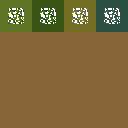
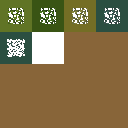
dev

Changed region(s): [[0.0, 0.25, 0.5, 0.5]]

diff --git a/src/babylon/world/treeManager.ts b/src/babylon/world/treeManager.ts
@@ -1,19 +1,23 @@
 import { Matrix, Scene, Vector2, Vector3 } from '@babylonjs/core'
 import { Prefab, WorldRenderer } from '@/babylon/world/worldRenderer'
 import { MaterialEnum1 } from '@/babylon/materials'
-import { PrefabTree1 } from '@/babylon/world/prefabs/tree1'
 import { WorldDataManager } from '@/data/worldDataManager'
 import { ViewportManager } from '@/utils/viewport'
+import { PrefabOak } from '@/babylon/world/prefabs/treeOak'
+import { PrefabFir } from '@/babylon/world/prefabs/treeFir'
 
 export const TreeManager = {
     prefabs: {
         tree1: null as Prefab | null,
+        tree2: null as Prefab | null,
     },
     allTrees : [] as Tree[],
     visibleTrees : [] as Tree[],
 
     initialize(scene: Scene) {
-        this.prefabs.tree1 = PrefabTree1.getPrefab(scene)
+        this.prefabs.tree1 = PrefabOak.getPrefab(scene)
+        this.prefabs.tree2 = PrefabFir.getPrefab(scene)
+
         this.addTrees()
     },
 
@@ -23,9 +27,31 @@ export const TreeManager = {
     consumeTrees(data: [ { x: number, z: number, size: number } ]) {
         data.forEach(tree => {
             const y = WorldDataManager.getBlockMap()[tree.x][tree.z].height + 0.5
-            this.allTrees.push(new Tree1(new Vector3(tree.x, y, tree.z), Math.floor(Math.random() * 4) * Math.PI / 2, tree.size * 1.5, MaterialEnum1.getMaterialByIndex(1 + Math.floor(Math.random() * 2))))
-        })
+            const size = tree.size
+            const rotation = Math.floor(Math.random() * 4) * Math.PI / 2
+            const pos = new Vector3(tree.x, y, tree.z)
 
+            switch (tree.type) {
+                case 1: this.allTrees.push(new TreeOak(pos, rotation, size, MaterialEnum1.getMaterialByIndex(1)))
+                    break
+                case 2: this.allTrees.push(new TreeOak(pos, rotation, size, MaterialEnum1.getMaterialByIndex(2)))
+                    break
+                case 3: this.allTrees.push(new TreeOak(pos, rotation, size, MaterialEnum1.getMaterialByIndex(3)))
+                    break
+                case 4: this.allTrees.push(new TreeOak(pos, rotation, size, MaterialEnum1.getMaterialByIndex(4)))
+                    break
+                case 5: this.allTrees.push(new TreeFir(pos, rotation, size, MaterialEnum1.getMaterialByIndex(1)))
+                    break
+                case 6: this.allTrees.push(new TreeFir(pos, rotation, size, MaterialEnum1.getMaterialByIndex(2)))
+                    break
+                case 7: this.allTrees.push(new TreeFir(pos, rotation, size, MaterialEnum1.getMaterialByIndex(3)))
+                    break
+                case 8: this.allTrees.push(new TreeFir(pos, rotation, size, MaterialEnum1.getMaterialByIndex(4)))
+                    break
+                default:
+                    break
+            }
+        })
     },
 
     removeTrees(data: [ { x: number, z: number } ]) {
@@ -82,7 +108,7 @@ export const TreeManager = {
     }
 }
 
-class Tree1 implements Tree {
+class TreeOak implements Tree {
     position: Vector3
     rotation: number
     scale: number
@@ -121,6 +147,44 @@ class Tree1 implements Tree {
     }
 }
 
+class TreeFir implements Tree {
+    position: Vector3
+    rotation: number
+    scale: number
+    leafMaterial: Vector2
+    woodMaterial: Vector2
+    leavesPrefab: Prefab
+
+    constructor(position: Vector3, rotation: number, scale: number, leafMaterial: Vector2) {
+        this.position = position
+        this.rotation = rotation
+        this.scale = scale
+        this.leafMaterial = leafMaterial
+        this.woodMaterial = Math.random() < 0.5 ? MaterialEnum1.WOOD_1.uv : MaterialEnum1.WOOD_2.uv
+        this.leavesPrefab = TreeManager.prefabs.tree2!
+    }
+
+    renderLeaves() {
+        const matrix = Matrix.Translation( this.position.x, this.position.y - 1 + (2 * this.scale), this.position.z);
+        const rotationMatrix = Matrix.RotationY(this.rotation);
+        const scaleMatrix = Matrix.Scaling(this.scale, this.scale, this.scale);
+
+        this.leavesPrefab.matrices.push(scaleMatrix.multiply(rotationMatrix).multiply(matrix))
+        this.leavesPrefab.uvData.push(this.leafMaterial)
+    }
+
+    renderTrunk() {
+        const scaleMatrix = Matrix.Scaling(this.scale / 2, this.scale / 2, this.scale / 2);
+
+        // Blocks for trunk
+        for (let i = 0; i <= 2 * this.scale; i += this.scale / 2) {
+            const positionMatrix = Matrix.Translation( this.position.x, this.position.y + i, this.position.z)
+
+            WorldRenderer.block1!.matrices.push(scaleMatrix.multiply(positionMatrix))
+            WorldRenderer.block1!.uvData.push(this.woodMaterial)
+        }
+    }
+}
 interface Tree {
     position: Vector3
     rotation: number

diff --git a/src/babylon/monsters/monsterManager.ts b/src/babylon/monsters/monsterManager.ts
@@ -4,7 +4,6 @@ import { MonsterLoader } from '@/babylon/monsters/monsterLoader'
 import { MonsterModel } from '@/babylon/monsters/monsterModel'
 import { MonsterCodebook, MonsterType } from '@/babylon/monsters/codebook/monsterCodebook'
 import { Utils } from '@/utils/utils'
-import { Data } from '@/data/globalData'
 import { ViewportManager } from '@/utils/viewport'
 
 export const MonsterManager = {
@@ -20,9 +19,9 @@ export const MonsterManager = {
 
         if (this.monsters.has(id)) {
             const mob = this.monsters.get(id)
-            mob.xPos = position.x
-            mob.zPos = position.z
-            mob.hp = hp
+            mob!.pos.x = position.x
+            mob!.pos.z = position.z
+            mob!.hp = hp
         } else {
             const monsterType: MonsterType = MonsterCodebook.getMonsterTypeById(type)
             const monster = new Monster(id, monsterType, position.x, position.z, hp)
@@ -47,7 +46,7 @@ export const MonsterManager = {
     removeMonster (id: number) {
         if (this.monsters.has(id)) {
             this.visibleMonsters.delete(id)
-            this.monsters.get(id).removeMonster()
+            this.monsters.get(id)!.removeMonster()
             this.monsters.delete(id)
         }
     },
@@ -55,19 +54,19 @@ export const MonsterManager = {
     monsterMove(id: number, position: { x: number, z: number }, target: { x: number, z: number }, speed: number) {
         if (this.monsters.has(id)) {
             const mob = this.monsters.get(id)
-            mob.runSpeed = speed
-            mob.xPos = position.x
-            mob.zPos = position.z
-            mob.setTargetPoint(new Vector3(target.x, 0, target.z))
+            mob!.runSpeed = speed
+            mob!.pos.x = position.x
+            mob!.pos.z = position.z
+            mob!.setTargetPoint(new Vector3(target.x, 0, target.z))
         }
     },
 
     monsterMoveStop(id: number, position: { x: number, z: number }) {
         if (this.monsters.has(id)) {
             const mob = this.monsters.get(id)
-            mob.xPos = position.x
-            mob.zPos = position.z
-            mob.resetTargetPoint()
+            mob!.pos.x = position.x
+            mob!.pos.z = position.z
+            mob!.resetTargetPoint()
         }
     },
 
@@ -101,12 +100,12 @@ export const MonsterManager = {
     },
 
     isMonsterInViewport(monster: Monster) {
-        return ViewportManager.isPointInVisibleMatrix(Math.floor(monster.xPos), Math.floor(monster.zPos), 0)
+        return ViewportManager.isPointInVisibleMatrix(Math.floor(monster.pos.x), Math.floor(monster.pos.z), 0)
     },
 
     isPointInMonster(x: number, z: number, size: number): Monster | null {
         for (const monster of this.monsters.values()) {
-            if (Math.abs(monster.xPos - x) < size && Math.abs(monster.zPos - z) < size) {
+            if (Math.abs(monster.pos.x - x) < size && Math.abs(monster.pos.z - z) < size) {
                 return monster
             }
         }

diff --git a/src/babylon/monsters/monster.ts b/src/babylon/monsters/monster.ts
@@ -13,9 +13,8 @@ export class Monster {
     hp: number
     runSpeed: number = 0
     rotationSpeed: number = 15
-    xPos: number
-    zPos: number
-    yPos: number
+    pos: Vector3
+    logicYpos: number = 0
 
     moveAngle: number | null = null
     insideView: boolean = true
@@ -24,9 +23,9 @@ export class Monster {
         this.id = id
         this.mobType = mobType
         this.hp = hp
-        this.xPos = xPos
-        this.zPos = zPos
-        this.yPos = 0
+        this.pos = new Vector3(xPos, 0, zPos)
+        this.logicYpos = this.calculateYPos()
+        this.pos.y = this.logicYpos
     }
 
     onFrame(timeRate: number, actualTime: number) {
@@ -47,30 +46,30 @@ export class Monster {
         const stepSize = this.runSpeed * timeRate
         if (this.targetPoint != null) {
 
-            const dx = Math.abs(this.targetPoint.x - this.xPos)
-            const dz = Math.abs(this.targetPoint.z - this.zPos)
+            const dx = Math.abs(this.targetPoint.x - this.pos.x)
+            const dz = Math.abs(this.targetPoint.z - this.pos.z)
 
             if (dx <= stepSize && dz <= stepSize) {
-                this.xPos = this.targetPoint.x
-                this.zPos = this.targetPoint.z
+                this.pos.x = this.targetPoint.x
+                this.pos.z = this.targetPoint.z
                 this.targetPoint = null
                 this.moveAngle = null
             }
         }
 
         if (this.moveAngle != null) {
-            this.xPos += (Math.cos(this.moveAngle + Math.PI / 4) * stepSize)
-            this.zPos -= (Math.sin(this.moveAngle + Math.PI / 4) * stepSize)
+            this.pos.x += (Math.cos(this.moveAngle + Math.PI / 4) * stepSize)
+            this.pos.z -= (Math.sin(this.moveAngle + Math.PI / 4) * stepSize)
             if (this.model.initialized) this.model.doWalk()
         } else {
             if (this.model.initialized) this.model.doIdle()
         }
 
-        this.yPos = this.calculateYPos()
+        this.logicYpos = this.calculateYPos()
     }
 
     setTargetPoint(point: Vector3) {
-        const angle = Math.atan2(-(point.z - this.zPos), point.x - this.xPos)
+        const angle = Math.atan2(-(point.z - this.pos.z), point.x - this.pos.x)
         this.moveAngle = angle - Math.PI / 4
         this.targetPoint = point
     }
@@ -82,7 +81,7 @@ export class Monster {
 
     calculateYPos() {
         const map = WorldDataManager.getBlockMap()
-        const coveredBlocks = Utils.getCoveredBlocks(this.xPos, this.zPos, 0.4)
+        const coveredBlocks = Utils.getCoveredBlocks(this.pos.x, this.pos.z, 0.4)
 
         // From map get all blocks that are covered by the player and find the highest one
         let highest = 0

diff --git a/src/babylon/world/prefabs/treeFir.ts b/src/babylon/world/prefabs/treeFir.ts
@@ -1,0 +1,76 @@
+import { Mesh, MeshBuilder, Scene, Vector3 } from '@babylonjs/core'
+import { Prefab } from '@/babylon/world/worldRenderer'
+import { Materials } from '@/babylon/materials'
+
+export const PrefabFir = {
+    getPrefab(scene: Scene) {
+
+        const box = MeshBuilder.CreateBox("box", {
+            width: 0.5,
+            height: 0.5,
+            depth: 0.5
+        }, scene);
+
+        box.isVisible = false;
+
+        const blocks: Mesh[] = [];
+        let y = 0;
+
+        const layers = [
+            // spodní – nejširší
+            [
+                { x: -0.9, z: 0 }, { x: 0.9, z: 0 },
+                { x: 0, z: -0.9 }, { x: 0, z: 0.9 },
+                { x: -0.6, z: -0.6 }, { x: 0.6, z: -0.6 },
+                { x: -0.6, z: 0.6 }, { x: 0.6, z: 0.6 }
+            ],
+
+            // 2
+            [
+                { x: -0.6, z: 0 }, { x: 0.6, z: 0 },
+                { x: 0, z: -0.6 }, { x: 0, z: 0.6 },
+                { x: -0.4, z: -0.4 }, { x: 0.4, z: -0.4 },
+                { x: -0.4, z: 0.4 }, { x: 0.4, z: 0.4 }
+            ],
+
+            // 3
+            [
+                { x: -0.4, z: 0 }, { x: 0.4, z: 0 },
+                { x: 0, z: -0.4 }, { x: 0, z: 0.4 }
+            ],
+
+            // 4
+            [
+                { x: -0.25, z: 0 }, { x: 0.25, z: 0 },
+                { x: 0, z: -0.25 }, { x: 0, z: 0.25 }
+            ],
+
+            // 5
+            [
+                { x: 0, z: 0 },
+                { x: 0.15, z: 0 }, { x: -0.15, z: 0 }
+            ],
+
+            // špička
+            [
+                { x: 0, z: 0 }
+            ]
+        ];
+
+        layers.forEach(layer => {
+            layer.forEach(pos => {
+                const c = box.clone("clone");
+                c.position = new Vector3(pos.x, y, pos.z);
+                blocks.push(c);
+            });
+            y += 0.5;
+        });
+
+        const merged = Mesh.MergeMeshes(blocks, true) as Mesh;
+        merged.material = Materials.blockMatAlpha1;
+        merged.name = "prefab_pine_tall";
+        merged.alwaysSelectAsActiveMesh = true;
+
+        return new Prefab(merged);
+    }
+};

diff --git a/src/babylon/monsters/monsterModel.ts b/src/babylon/monsters/monsterModel.ts
@@ -6,7 +6,6 @@ import {
 import { Monster } from '@/babylon/monsters/monster'
 import { MonsterLoader } from '@/babylon/monsters/monsterLoader'
 import { MonsterCodebook, MonsterType } from '@/babylon/monsters/codebook/monsterCodebook'
-import { Data } from '@/data/globalData'
 import { MeshAnimation } from '@/babylon/animations/animation'
 import { MonsterTemplate } from '@/babylon/monsters/codebook/monsterTemplates'
 import { MobEquipItem, MobEquipManager } from '@/babylon/item/mobEquipManager'
@@ -108,8 +107,8 @@ export class MonsterModel {
     }
 
     resolveMovement(timeRate: number) {
-        this.node.position.x = this.parent.xPos
-        this.node.position.z = this.parent.zPos
+        this.node.position.x = this.parent.pos.x
+        this.node.position.z = this.parent.pos.z
 
         this.resolveModelYpos(timeRate)
         this.resolveModelRotation(timeRate)
@@ -122,8 +121,8 @@ export class MonsterModel {
      * Approximate model Y position to the player Y position
      */
     resolveModelYpos(timeRate: number) {
-        this.node.position.y = (this.parent.yPos)
-        this.modelYpos = this.node.position.y
+        this.parent.pos.y += (this.parent.logicYpos - this.parent.pos.y) * 15 * timeRate
+        this.node.position.y = this.parent.pos.y
     }
 
     /**

diff --git a/src/babylon/materials.ts b/src/babylon/materials.ts
@@ -144,6 +144,8 @@ export const MaterialEnum1 = {
     TREE_LEAF_2: new MaterialEnum(2, new Vector2(2.5, 6.5)),
     TREE_LEAF_3: new MaterialEnum(3, new Vector2(4.5, 6.5)),
     TREE_LEAF_4: new MaterialEnum(4, new Vector2(6.5, 6.5)),
+    TREE_LEAF_5: new MaterialEnum(5, new Vector2(0.5, 4.5)),
+    TREE_LEAF_6: new MaterialEnum(6, new Vector2(2.5, 4.5)),
     WOOD_1: new MaterialEnum(5, new Vector2(2.5, 4.5)),
     WOOD_2: new MaterialEnum(5, new Vector2(0.5, 4.5)),
 

diff --git a/src/babylon/world/prefabs/treeOak.ts b/src/babylon/world/prefabs/treeOak.ts
@@ -2,7 +2,7 @@ import { Mesh, MeshBuilder, Scene, Vector3 } from '@babylonjs/core'
 import { Prefab } from '@/babylon/world/worldRenderer'
 import { Materials } from '@/babylon/materials'
 
-export const PrefabTree1 = {
+export const PrefabOak = {
     getPrefab(scene: Scene) {
         const box = MeshBuilder.CreateBox("box", { width: 0.5, height: 0.5, depth: 0.5}, scene);
         box.position = new Vector3(0, 0, 0);

diff --git a/src/babylon/world/worldRenderer.ts b/src/babylon/world/worldRenderer.ts
@@ -36,6 +36,7 @@ export const WorldRenderer = {
         Renderer.addShadowCaster(this.block1.mesh)
         Renderer.addShadowCaster(this.blockWithAlpha1.mesh)
         Renderer.addShadowCaster(TreeManager.prefabs.tree1!.mesh)
+        Renderer.addShadowCaster(TreeManager.prefabs.tree2!.mesh)
     },
 
     /**
